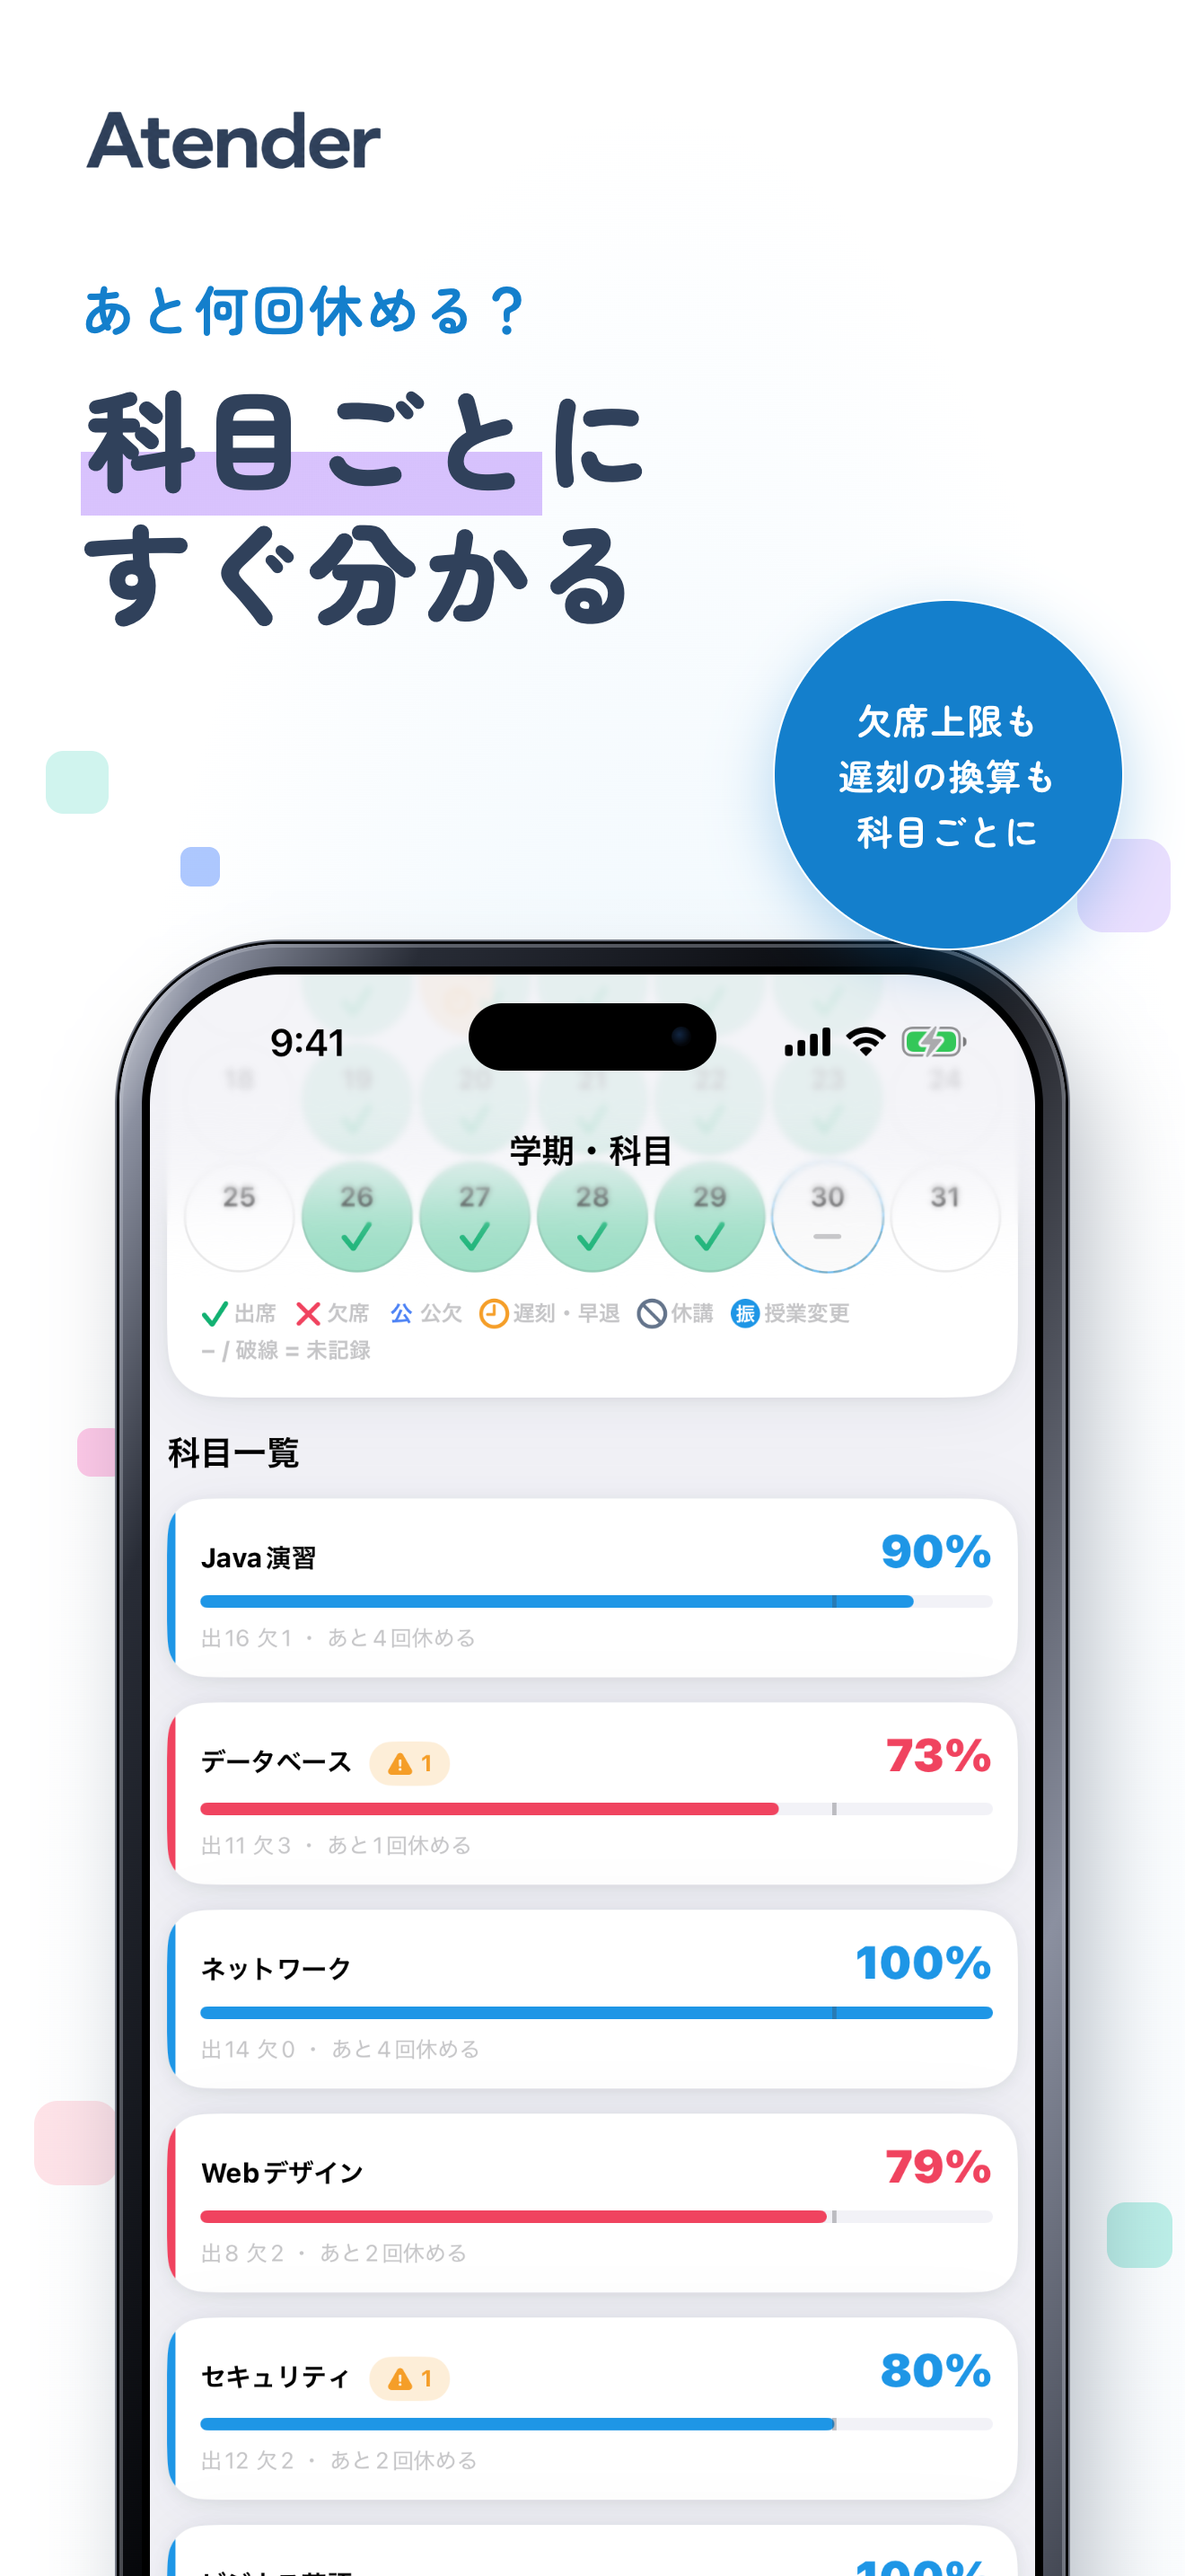
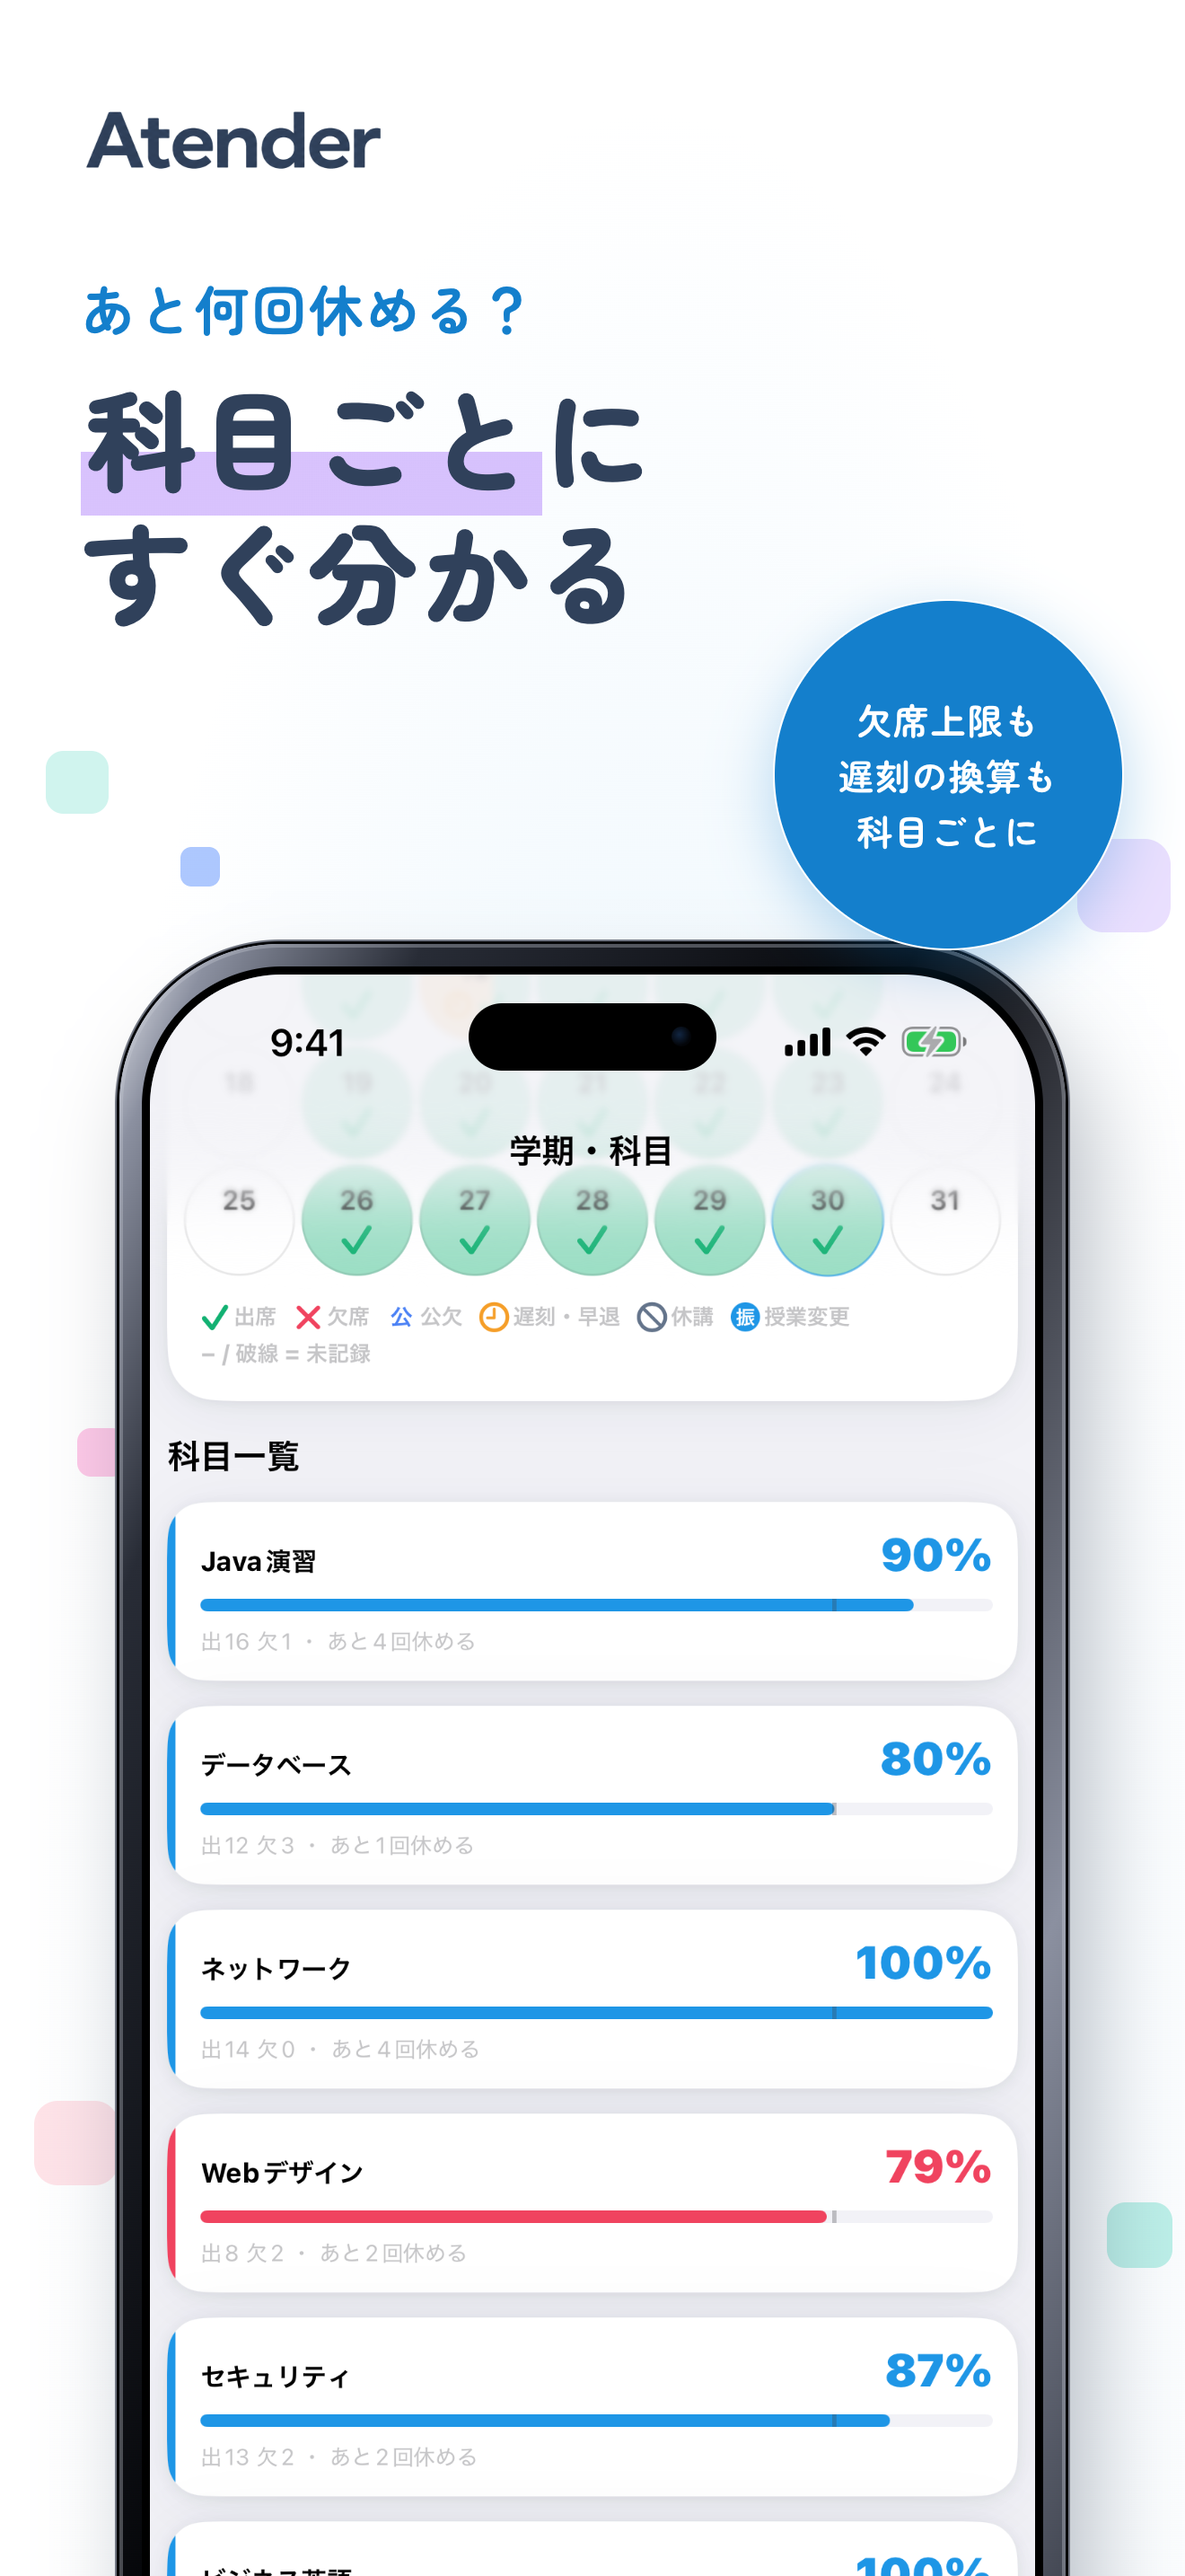
feat(store): 公開時間割を 3 件に、1 枚目の未記録警告を消す (撮影前に今日を全出席で記録)、画像再生成
Claude-Session: https://claude.ai/code/session_01NbTxgwUdvj38hk2ZKZU4pA

diff --git a/apps/api/scripts/seed-store-demo.ts b/apps/api/scripts/seed-store-demo.ts
@@ -16,7 +16,7 @@ export type StoreDemoSeedResult = {
   semesterId: string;
   semesterName: string;
   roomId: string;
-  templateIds: [string, string]; // Aクラス、Bクラスの順
+  templateIds: [string, string, string]; // Aクラス、Bクラス、Cクラスの順
   today: string; // プロセスのタイムゾーンでの YYYY-MM-DD
 };
 
@@ -227,8 +227,8 @@ export async function seedStoreDemo(opts?: { now?: Date }): Promise<StoreDemoSee
     await prisma.roomMembership.create({ data: { roomId: room.id, userId, role: userId === MINATO_ID ? "OWNER" : "MEMBER" } });
   }
 
-  // 公開時間割は同じ定義から写し、Bクラスだけ火曜と木曜を入れ替える。
-  async function createTemplate(className: string, authorUserId: string, copyCount: number, swapDays: boolean) {
+  // 公開時間割は同じ定義から写し、Bクラスは火曜と木曜、Cクラスは月曜と水曜を入れ替える (一覧が端末の画面を埋める 3 件にする)。
+  async function createTemplate(className: string, authorUserId: string, copyCount: number, swap: [number, number] | null) {
     const template = await prisma.timetableTemplate.create({
       data: {
         authorUserId, schoolId: school.id, departmentId: department.id,
@@ -244,8 +244,8 @@ export async function seedStoreDemo(opts?: { now?: Date }): Promise<StoreDemoSee
         data: { templateId: template.id, name: definition.name, teacher: definition.teacher, color: definition.color },
       });
       for (const meeting of definition.meetings) {
-        const dayOfWeek = swapDays && meeting.dayOfWeek === 2 ? 4
-          : swapDays && meeting.dayOfWeek === 4 ? 2 : meeting.dayOfWeek;
+        const dayOfWeek = swap && meeting.dayOfWeek === swap[0] ? swap[1]
+          : swap && meeting.dayOfWeek === swap[1] ? swap[0] : meeting.dayOfWeek;
         await prisma.templateMeeting.create({
           data: { templateId: template.id, courseId: course.id, ...meeting, dayOfWeek },
         });
@@ -253,12 +253,13 @@ export async function seedStoreDemo(opts?: { now?: Date }): Promise<StoreDemoSee
     }
     return template.id;
   }
-  const templateAId = await createTemplate("Aクラス", YUI_ID, 18, false);
-  const templateBId = await createTemplate("Bクラス", HARUTO_ID, 9, true);
+  const templateAId = await createTemplate("Aクラス", YUI_ID, 18, null);
+  const templateBId = await createTemplate("Bクラス", HARUTO_ID, 9, [2, 4]);
+  const templateCId = await createTemplate("Cクラス", YUI_ID, 5, [1, 3]);
 
   return {
     userId: MINATO_ID, bearerToken: BEARER_TOKEN, semesterId: minato.semester.id,
-    semesterName, roomId: room.id, templateIds: [templateAId, templateBId],
+    semesterName, roomId: room.id, templateIds: [templateAId, templateBId, templateCId],
     today: today.format("YYYY-MM-DD"),
   };
 }

diff --git a/apps/ios/AtenderUITests/StoreShotsFlow.swift b/apps/ios/AtenderUITests/StoreShotsFlow.swift
@@ -54,6 +54,12 @@ final class StoreShotsFlow: XCTestCase {
         sleep(1)
         snap("s2-home")
 
+        // 1 枚目の「出席率」に未記録の警告帯が写らないよう、今日の授業を全出席で記録してから学期タブへ移る。
+        let markAll = app.buttons.containing(NSPredicate(format: "label CONTAINS %@", "今日は全出席"))
+            .firstMatch
+        guard tapButton(markAll, named: "今日は全出席") else { return }
+        sleep(3)
+
         // 手順3・4: 学期全体の出席率を撮影する。
         guard tapButton("学期・科目") else { return }
         guard waitForElement(app.staticTexts["今日までの出席率"].firstMatch,
@@ -79,8 +85,14 @@ final class StoreShotsFlow: XCTestCase {
 
         // 手順6・7: 公開時間割のカードが表示されてから撮影する。
         // スクロール後はタブバーが縮むことがあるので、先頭まで戻してからタブを押す。
-        for _ in 0..<4 { app.swipeDown() }
-        guard tapButton(app.tabBars.buttons["ホーム"].firstMatch, named: "ホーム"),
+        let homeTab = app.tabBars.buttons["ホーム"].firstMatch
+        var downs = 0
+        while !(homeTab.exists && homeTab.isHittable) && downs < 8 {
+            app.swipeDown()
+            sleep(1)
+            downs += 1
+        }
+        guard tapButton(homeTab, named: "ホーム"),
               tapButton("時間割の設定"),
               tapButton("timetable-settings-import-template") else { return }
         let template = app.descendants(matching: .any)
